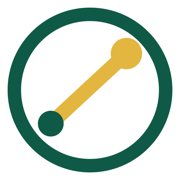
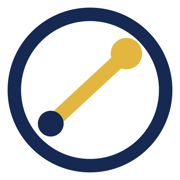
Update brand colour from green to navy blue

Changed region(s): [[0.0278, 0.0278, 0.9722, 0.9722]]

diff --git a/index.html b/index.html
@@ -11,7 +11,7 @@
   <link rel="icon" type="image/svg+xml" href="/logo.svg" />
   <link rel="icon" type="image/png" href="/favicon.png" />
   <link rel="apple-touch-icon" href="/apple-touch-icon.png" />
-  <meta name="theme-color" content="#0F5A46" />
+  <meta name="theme-color" content="#1B2A4A" />
 
   <!-- Open Graph -->
   <meta property="og:type" content="website" />
@@ -58,8 +58,8 @@
   </script>
   <style>
     :root {
-      --color-primary: #0F5A46;        /* Eucalyptus Deep Green */
-      --color-primary-dark: #083B32;   /* Deep Forest */
+      --color-primary: #1B2A4A;        /* Eucalyptus Deep Green */
+      --color-primary-dark: #12203A;   /* Deep Forest */
       --color-accent: #E2B63F;         /* Wheat Gold (stabilised) */
       --color-accent-dark: #D9A91A;    /* Warm Gold */
       --color-background: #FAF7F1;     /* Coastal Sand (brightened) */
@@ -453,7 +453,7 @@
     }
 
     /* ---------- Tax section ---------- */
-    .section-tax { background: #EEF5F1; }
+    .section-tax { background: #ECF1F7; }
     .section-tax h2 { color: var(--color-primary); }
     .tax-grid {
       display: grid;

diff --git a/exchanges/best-crypto-exchanges-australia/index.html b/exchanges/best-crypto-exchanges-australia/index.html
@@ -9,7 +9,7 @@
   <link rel="icon" type="image/svg+xml" href="/logo.svg" />
   <link rel="icon" type="image/png" href="/favicon.png" />
   <link rel="apple-touch-icon" href="/apple-touch-icon.png" />
-  <meta name="theme-color" content="#0F5A46" />
+  <meta name="theme-color" content="#1B2A4A" />
   <meta property="og:type" content="article" />
   <meta property="og:site_name" content="OzCoinTrail" />
   <meta property="og:title" content="Best Crypto Exchanges Australia 2026: Fees &amp; PayID Compared" />
@@ -23,8 +23,8 @@
   <meta name="twitter:image" content="https://ozcointrail.com/og-cover.png" />
   <style>
     :root {
-      --color-primary: #0F5A46;
-      --color-primary-dark: #083B32;
+      --color-primary: #1B2A4A;
+      --color-primary-dark: #12203A;
       --color-accent: #E2B63F;
       --color-accent-dark: #D9A91A;
       --color-background: #FAF7F1;
@@ -213,7 +213,7 @@
       vertical-align: top;
     }
     th {
-      background: #EEF5F1;
+      background: #ECF1F7;
       color: var(--color-primary-dark);
       font-weight: 700;
       font-size: 0.82rem;

diff --git a/exchanges/binance/index.html b/exchanges/binance/index.html
@@ -9,7 +9,7 @@
   <link rel="icon" type="image/svg+xml" href="/logo.svg" />
   <link rel="icon" type="image/png" href="/favicon.png" />
   <link rel="apple-touch-icon" href="/apple-touch-icon.png" />
-  <meta name="theme-color" content="#0F5A46" />
+  <meta name="theme-color" content="#1B2A4A" />
   <meta property="og:type" content="article" />
   <meta property="og:site_name" content="OzCoinTrail" />
   <meta property="og:title" content="Binance Australia Review 2026: Fees, PayID &amp; AFSL Status" />
@@ -23,8 +23,8 @@
   <meta name="twitter:image" content="https://ozcointrail.com/og-cover.png" />
   <style>
     :root {
-      --color-primary: #0F5A46;
-      --color-primary-dark: #083B32;
+      --color-primary: #1B2A4A;
+      --color-primary-dark: #12203A;
       --color-accent: #E2B63F;
       --color-accent-dark: #D9A91A;
       --color-background: #FAF7F1;
@@ -207,7 +207,7 @@
       vertical-align: top;
     }
     th {
-      background: #EEF5F1;
+      background: #ECF1F7;
       color: var(--color-primary-dark);
       font-weight: 700;
       font-size: 0.82rem;

diff --git a/exchanges/okx/index.html b/exchanges/okx/index.html
@@ -9,7 +9,7 @@
   <link rel="icon" type="image/svg+xml" href="/logo.svg" />
   <link rel="icon" type="image/png" href="/favicon.png" />
   <link rel="apple-touch-icon" href="/apple-touch-icon.png" />
-  <meta name="theme-color" content="#0F5A46" />
+  <meta name="theme-color" content="#1B2A4A" />
   <meta property="og:type" content="article" />
   <meta property="og:site_name" content="OzCoinTrail" />
   <meta property="og:title" content="OKX Australia Review 2026: Fees, PayID &amp; Derivatives" />
@@ -23,8 +23,8 @@
   <meta name="twitter:image" content="https://ozcointrail.com/og-cover.png" />
   <style>
     :root {
-      --color-primary: #0F5A46;
-      --color-primary-dark: #083B32;
+      --color-primary: #1B2A4A;
+      --color-primary-dark: #12203A;
       --color-accent: #E2B63F;
       --color-accent-dark: #D9A91A;
       --color-background: #FAF7F1;
@@ -207,7 +207,7 @@
       vertical-align: top;
     }
     th {
-      background: #EEF5F1;
+      background: #ECF1F7;
       color: var(--color-primary-dark);
       font-weight: 700;
       font-size: 0.82rem;
